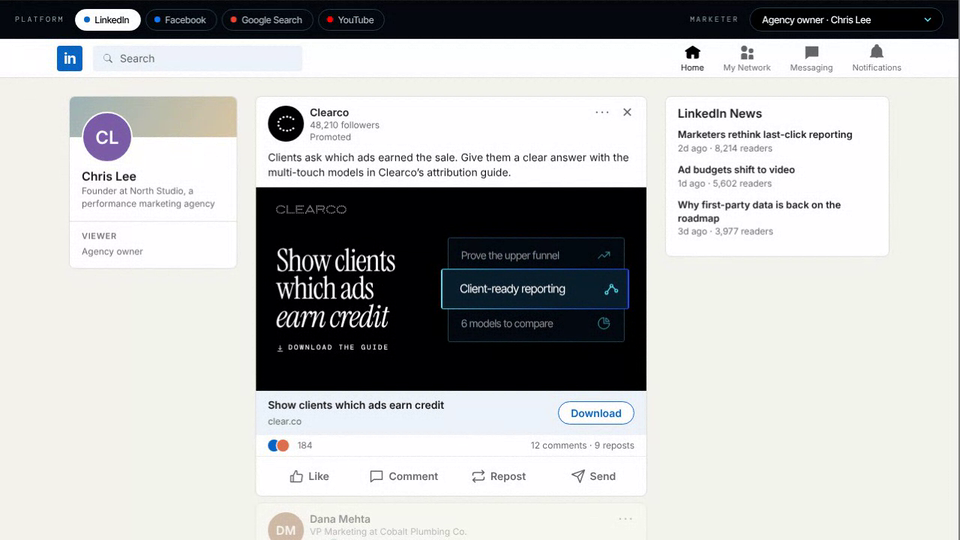
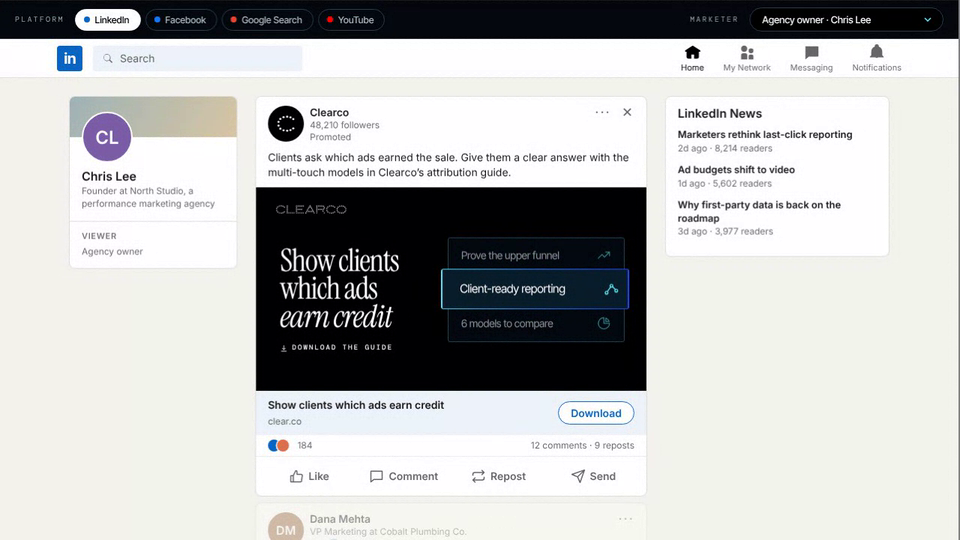
Paid Ad Pipeline: LinkedIn ad left text 5px further right
Claude-Session: https://claude.ai/code/session_016rpguaETsCiVqR7f54g7FW

Changed region(s): [[0.2812, 0.4444, 0.4375, 0.6519]]

diff --git a/clearco-paid-ad-pipeline/index.html b/clearco-paid-ad-pipeline/index.html
@@ -50,7 +50,7 @@ nav.back span{color:#6e6e6e}nav.back b{font-weight:500;color:#fff;overflow:hidde
 /* ---------- the creative: one element, moved into whichever platform is showing ---------- */
 .cr{display:block;position:relative;aspect-ratio:1.91;background:#000;overflow:hidden;container-type:inline-size;color:#fff;text-decoration:none;cursor:pointer;font-family:var(--sans)}
 .cr .lg{position:absolute;left:5.2cqw;top:4.6cqw;width:18cqw;aspect-ratio:978.8/116.8;height:auto;fill:#fff}
-.cr .l{position:absolute;left:5.2cqw;top:0;bottom:0;width:47cqw;display:flex;flex-direction:column;justify-content:center;padding-top:3cqw}
+.cr .l{position:absolute;left:6.16cqw;top:0;bottom:0;width:47cqw;display:flex;flex-direction:column;justify-content:center;padding-top:3cqw}
 .cr .chip{font:400 1.7cqw/1.5 var(--mono);letter-spacing:.22em;text-transform:uppercase;color:#8fa0ad;white-space:nowrap}
 .cr .chip em{font-style:normal;color:var(--cyan)}
 .cr h4{font:400 8cqw/.9 var(--serif);letter-spacing:-.035em;margin:2.4cqw 0 3.4cqw;white-space:nowrap}
